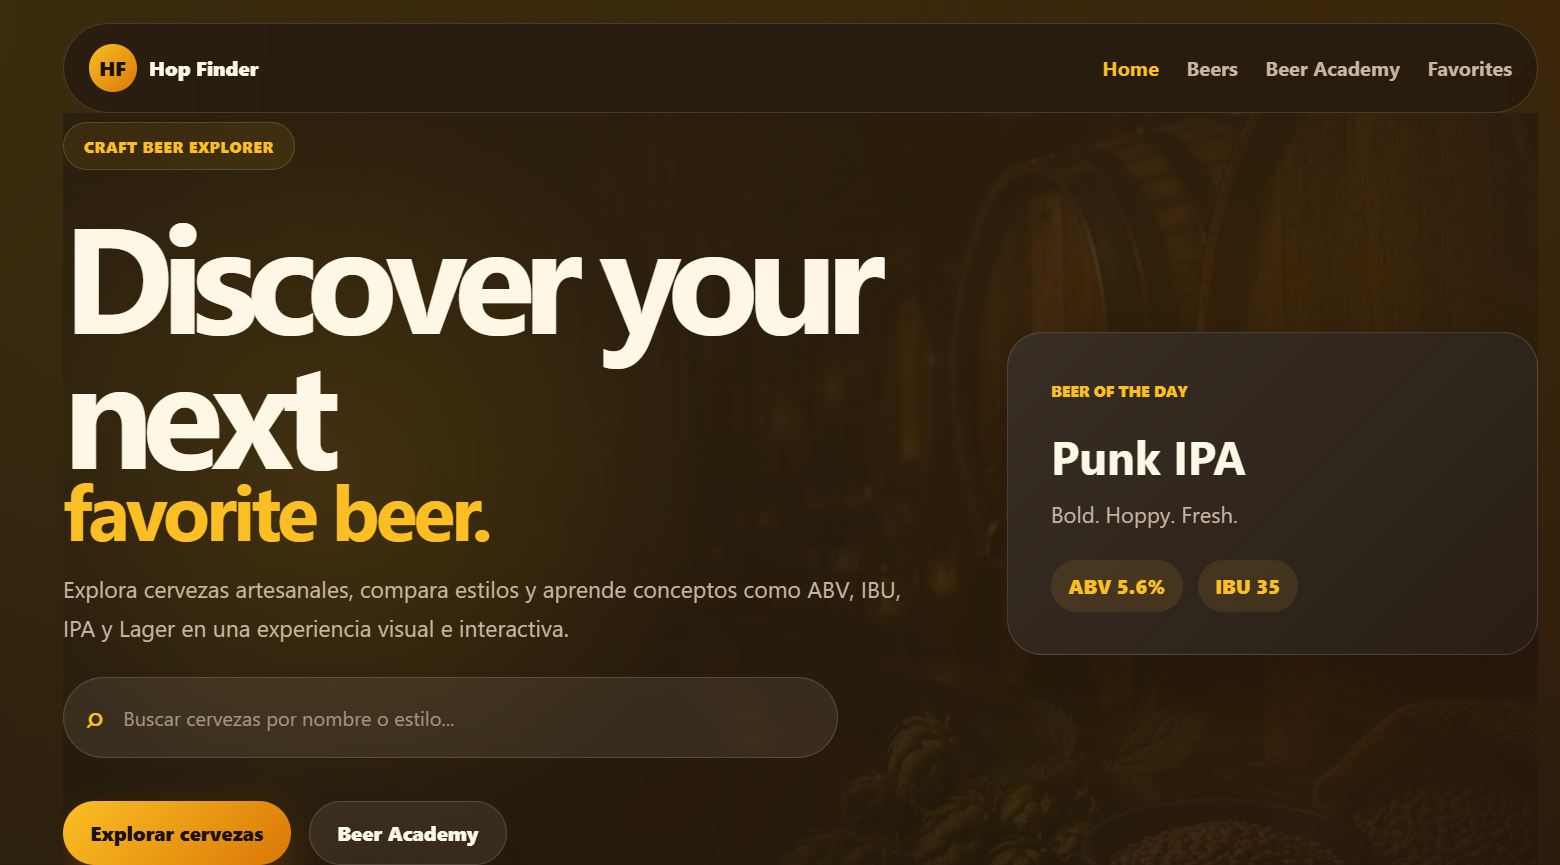
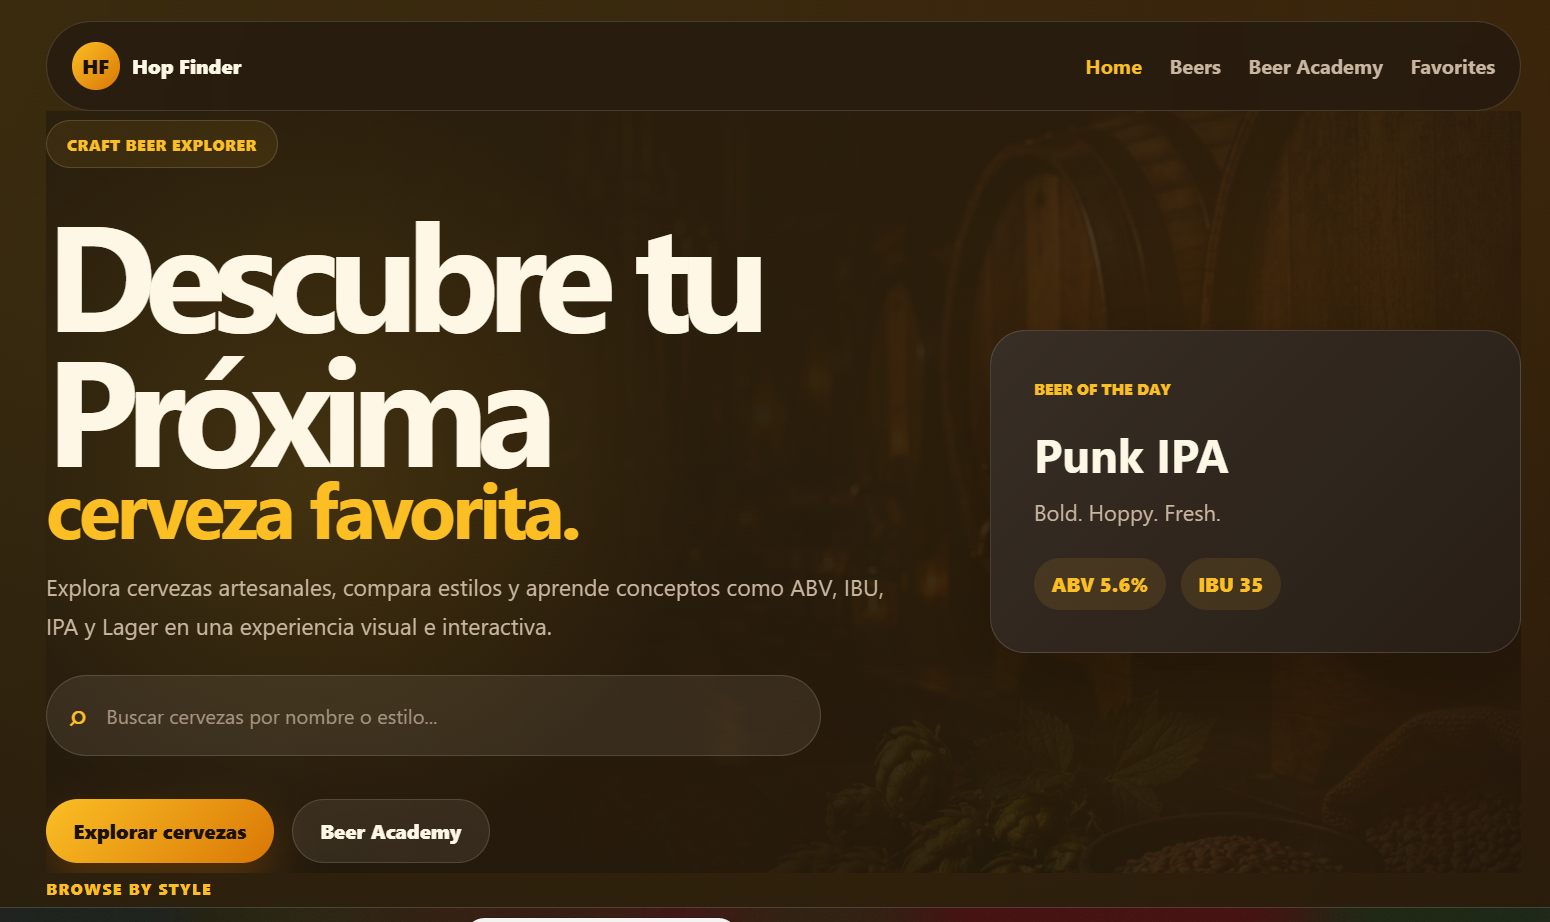
docs: update Vercel demo link and refresh homepage screenshot

diff --git a/README.md b/README.md
@@ -50,7 +50,7 @@ https://github.com/Paula-front/hop-finder
 
 ## 🌐 Demo
 
-https://hop-finder-two.vercel.app/
+https://hop-finder-1.vercel.app/
 
 ---
 